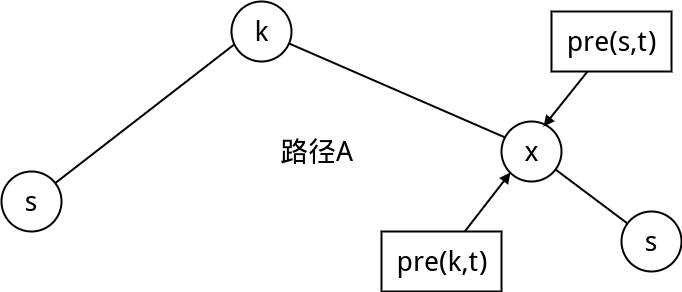
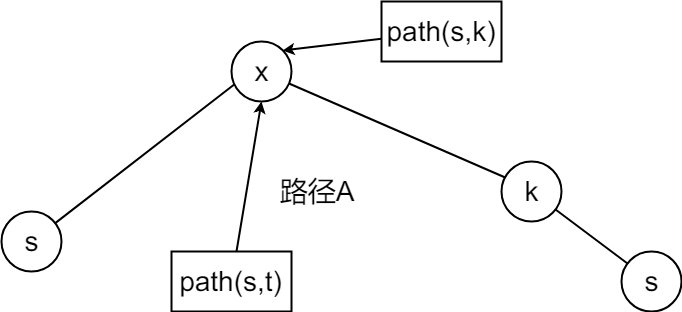
update

diff --git a/图/单源最短路径/floyed.md b/图/单源最短路径/floyed.md
@@ -84,18 +84,28 @@ void floyd(){
 
 ![3](./floyed3.png)
 
-如果我们要输出$$s \rightarrow t$$的最短路径,我们先设$$pre(i,j)$$表示$$ i \rightarrow j$$的最短路上的$$j$$前面的那个点.
+如果我们要输出$$s \rightarrow t$$的最短路径,我们先设$$path(i,j)$$表示$$ i \rightarrow j$$的最短路上的$$i$$后面的那个点.
 
-根据:$$f(s,t) = min\{f(s,t),f(s,k)+f(k,t)\}$$  
-如果$$f(s,t)$$能被$$ f(s,k)+f(k,t)$$更新,那么$$pre(s,t) = pre(k,t)$$,我们设$$pre(k,t) = x$$
+根据:$$f(s,t) = min\\{f(s,t),f(s,k)+f(k,t)\\}$$  
+如果$$f(s,t)$$能被$$ f(s,k)+f(k,t)$$更新,那么$$path(s,t) = path(i,k)$$,我们设$$path(i,k) = x$$
 
 
-根据**最优子结构的性质**:如果路径$$A$$是$$ s \rightarrow t $$ 的最短路径.那么路径$$A$$的一部分$$s \rightarrow x $$ 一定是$$s$$到$$x$$最短的,所以最短路径$$s \rightarrow t$$的前一个点的前一个点一写是$$pre(s,x)$$
+根据**最优子结构的性质**:如果路径$$A$$是$$ s \rightarrow t $$ 的最短路径.那么路径$$A$$的一部分$$x \rightarrow t $$ 一定是$$s$$到$$x$$最短的,所以最短路径$$s \rightarrow t$$的后一个点的后一个点一定是$$path(s,k)$$
 
 边界:
 
- - $$pre(i,i) = -1$$
- - $$pre(i,j) = i$$,$$i$$与$$j$$相连
+ - $$path(i,i) = -1$$,表示没有后趋.
+ - $$path(i,j) = j$$,$$i$$与$$j$$相连
+
+$$s$$到$$t$$的最短路径可能不止一个,**如何输出字典序最小的呢?**,看如下的代码.
+
+```c
+if( f[i][j] == f[i][k]+ f[k][j]) //表示有多条最短路径
+{
+    if( path[i][j] > path[i][k])
+        path[i][j] = path[i][k];
+}
+```
 
 ## 代码:
 
@@ -164,7 +174,7 @@ void floyd(){
 
 #define N 100
 const int INF = 0x7f7f7f7f/3; //这里要这样写,防止溢出
-int f[N][N],pre[N][N]; //pre 记录前趋
+int f[N][N],path[N][N]; //path 记录前趋
 int n,m;//n个点,m条边
 int s,t;//起点 终点
 
@@ -176,8 +186,7 @@ void floyd(){
             for(j=1;j<=n;j++)
                 if(f[i][k]+f[k][j]<f[i][j]){ //松弛法,如果能更小,那就更小
                     f[i][j] = f[i][k]+f[k][j]; 
-                    //pre[i][j]=k;
-                    pre[i][j] = pre[k][j];
+                    path[i][j] = path[i][k];
                 }
     }
 }
@@ -187,8 +196,6 @@ int main(){
     scanf("%d%d",&n,&m);
     scanf("%d%d",&s,&t);
 
-    /* 初始化 */
-    memset(pre,-1,sizeof(pre));
 
     for(i=1;i<=n;i++)
         for(j=1;j<=n;j++){
@@ -198,8 +205,8 @@ int main(){
     for(k=1;k<=m;k++){
         scanf("%d%d%d",&i,&j,&l);
         f[i][j]=f[j][i]=l;//边界,也就是不经过任何点的时候,两个点的最短路径
-        pre[i][j] = i; // pre的边界
-        pre[j][i] = j;
+        path[i][j] = j; // path的边界
+        path[j][i] = i;
     }
 
     /* 调用floyd */
@@ -209,9 +216,9 @@ int main(){
     printf("%d\n",f[s][t]);
 
     /* 输出路径 */
-    //printf("%d ",t); //终点
-    for(j=t;j!=-1;j=pre[s][j])
+    for(j=s;j!=t;j=path[j][t])
         printf("%d ",j);
+    printf("%d",t);
 
     return 0;
 }
@@ -221,6 +228,6 @@ int main(){
 
 ## 练习题目
 
- - luogu P2910 [USACO08OPEN]寻宝之路Clear And Present Danger  [pcs 题目解析地址](http://pcs.rainboy.top/#/article/B1qpkDuXm)
+ - luogu P2910 [USACO08OPEN]寻宝之路Clear And present Danger  [pcs 题目解析地址](http://pcs.rainboy.top/#/article/B1qpkDuXm)
  - luogu P1744 采购特价商品
- - [hdu 1385 Minimum Transport Cost](https://vjudge.net/problem/HDU-1385) 要求输出路径
+ - [hdu 1385 Minimum Transport Cost](https://vjudge.net/problem/HDU-1385) 要求输出路径 [pcs 题目解析](http://pcs.rainboy.top/#/article/HyAwPKu7X)
